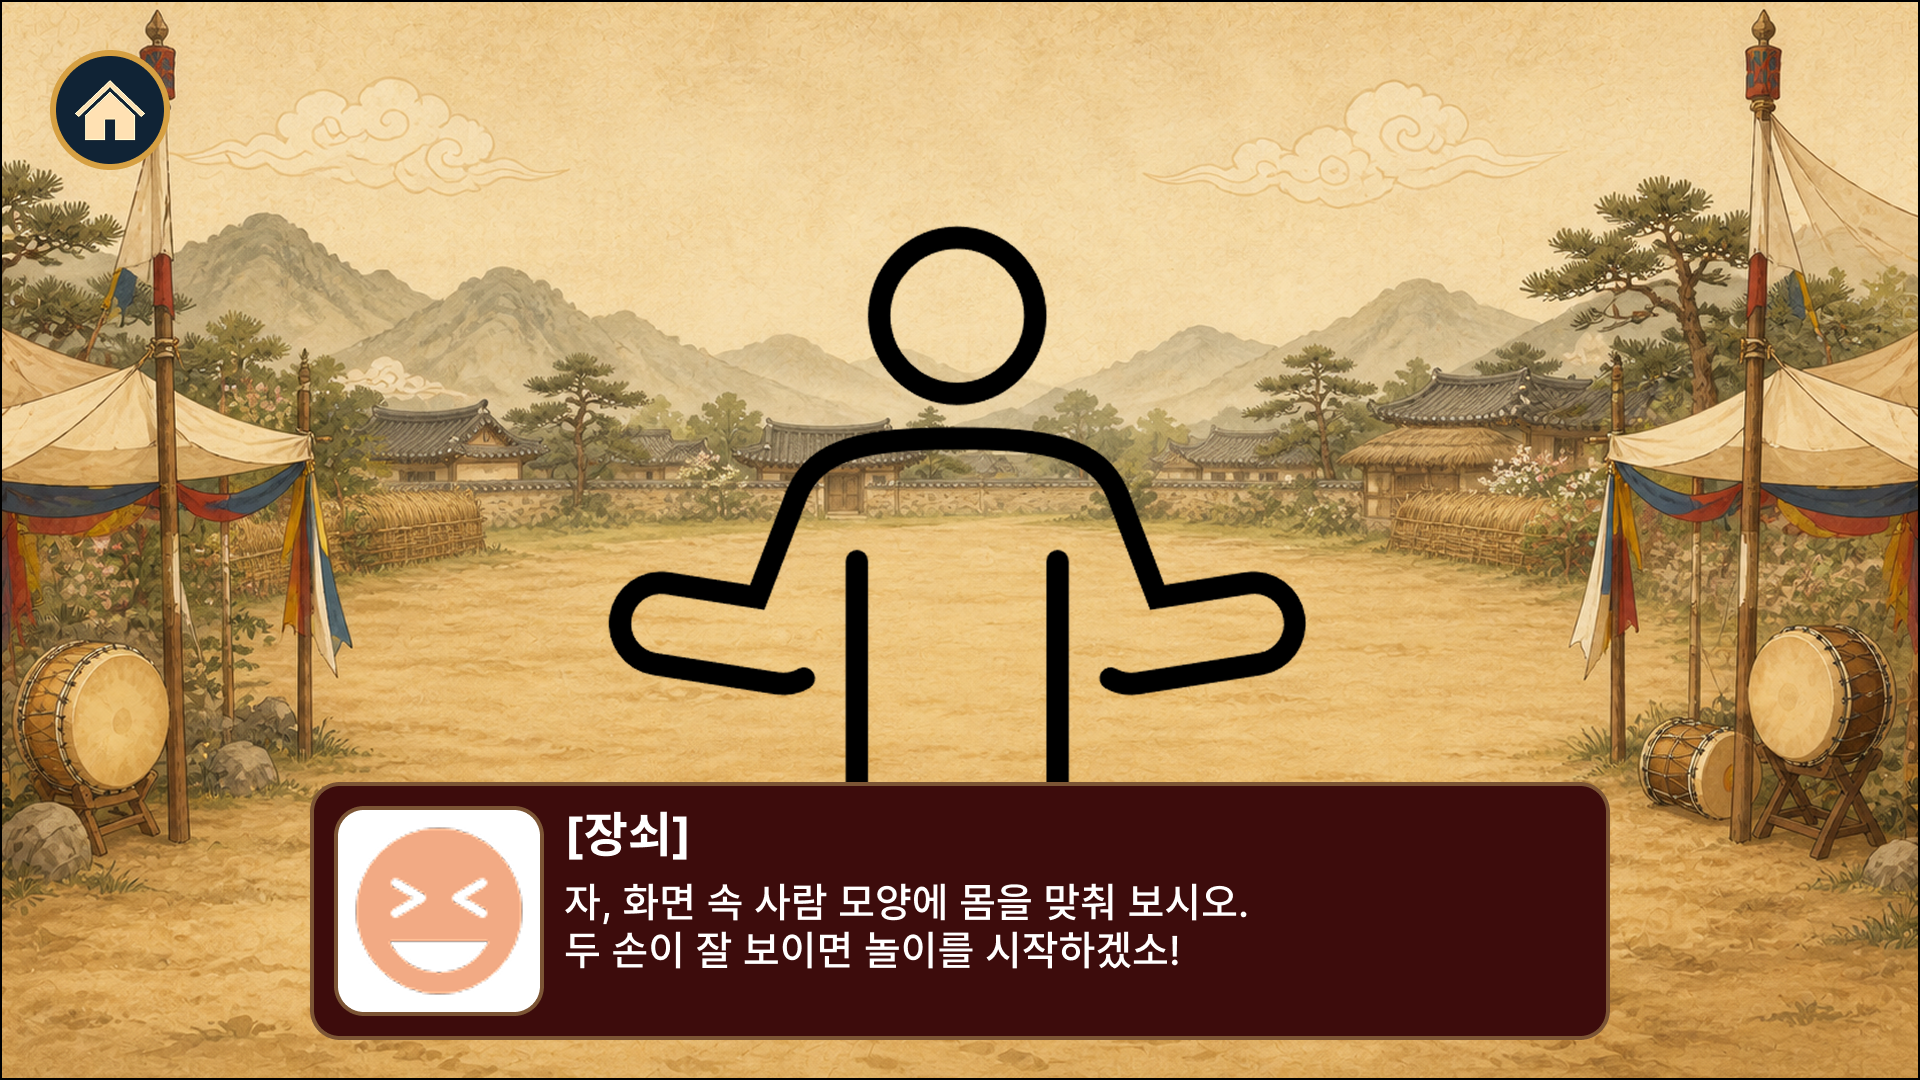
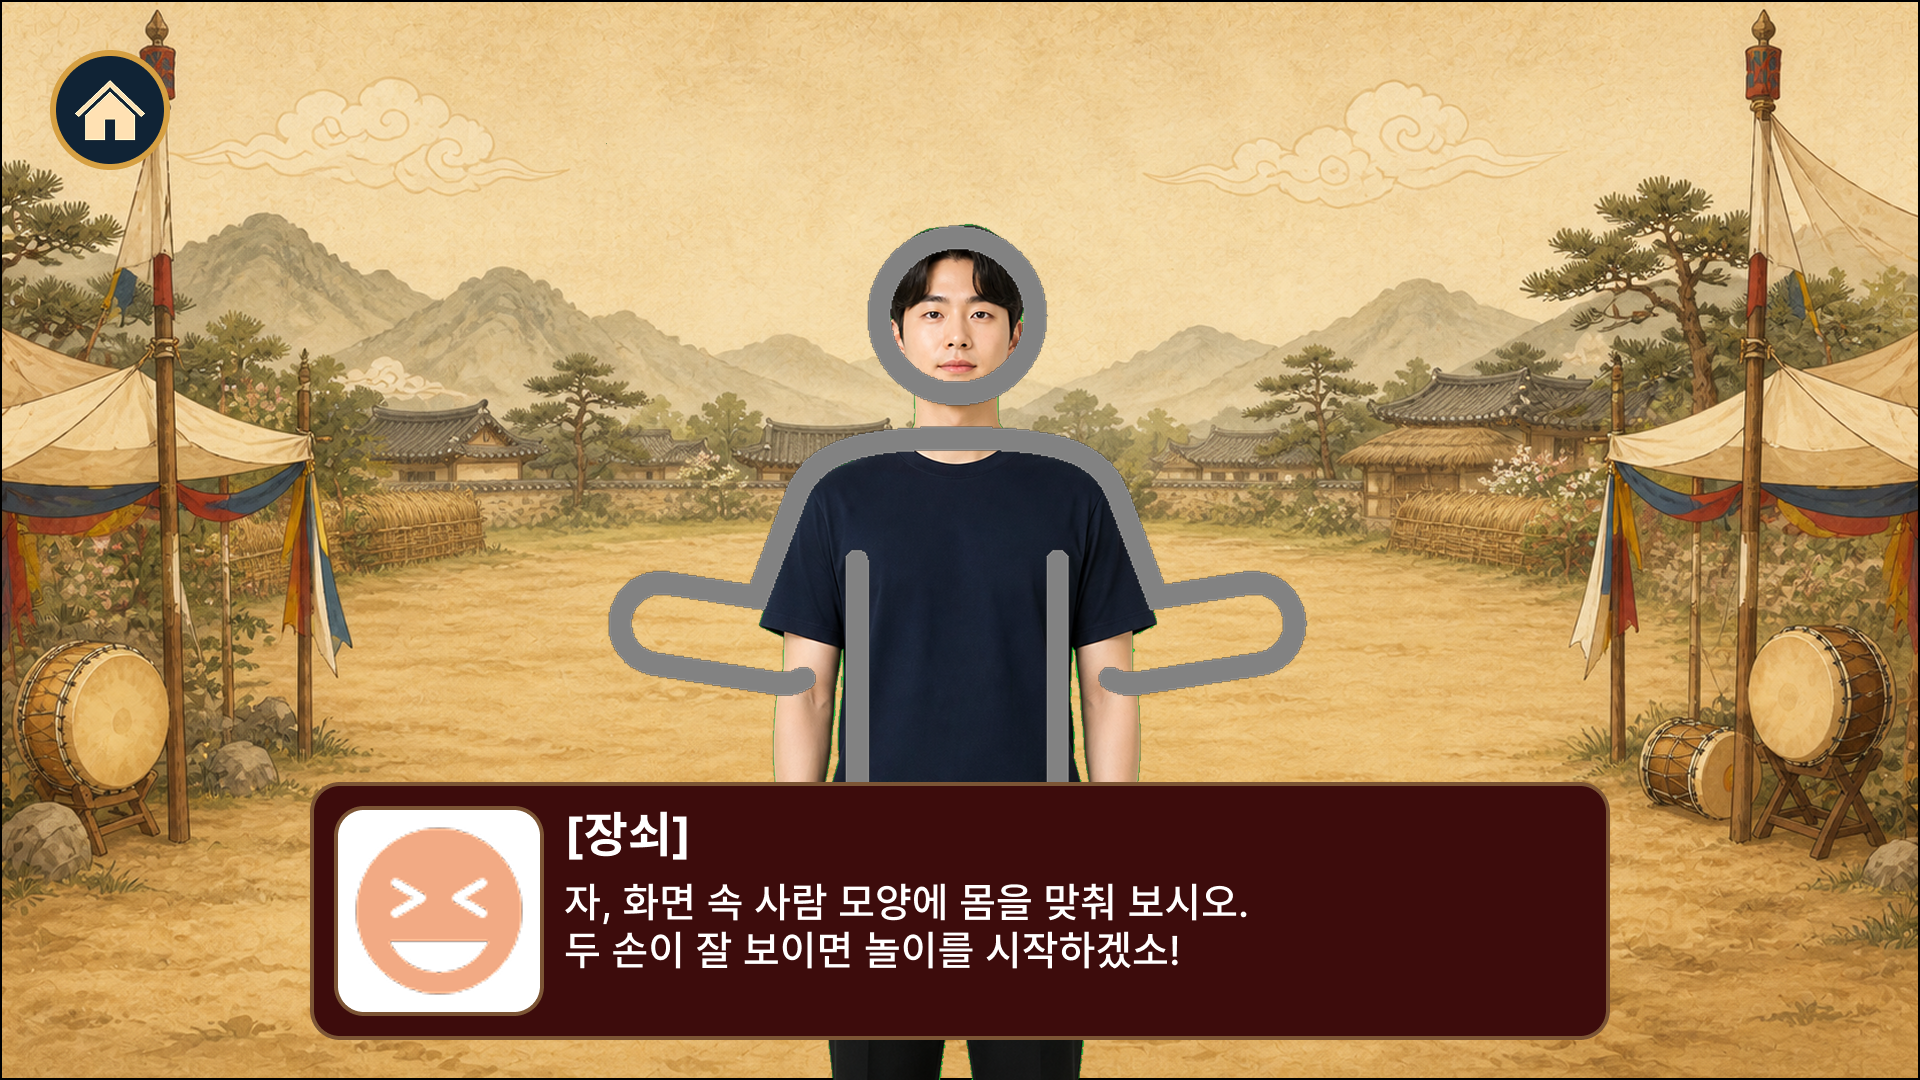
기획서 및 리소스 수정

Changed region(s): [[0.3125, 0.2139, 0.6875, 0.7333], [0.4062, 0.9472, 0.5625, 1.0]]

diff --git a/05_산출물/시범콘텐츠/05_덧뵈기 - 탈놀음 한바탕/덧뵈기 - 탈놀음 한바탕 기획서.md b/05_산출물/시범콘텐츠/05_덧뵈기 - 탈놀음 한바탕/덧뵈기 - 탈놀음 한바탕 기획서.md
@@ -257,8 +257,6 @@ updated: 2026-08-28
 - ROI는 입력 판정을 위해 화면상에 설정하는 **가상의 판정 영역**으로 **화면 좌표 기반 영역**으로 관리
 - 현재 탈놀음 체험 진행 단계에서 활성화된 ROI와 검출된 움직임의 위치 및 중첩 정도 비교
 - 설정된 판정 기준 충족 시 해당 ROI 입력 유효 판정
-	- 모션 인식 시스템 실행 후 UI 버튼: 1초 유지 시 유효 판정
-	- 탈놀음 체험 중 몰아내기 등 적대 캐릭터 등장 시: 적대 캐릭터 접촉 시 유효 판정
 
 #### 5) 게임 입력 변환
 
@@ -316,8 +314,6 @@ updated: 2026-08-28
 - 목적
 	- 완성된 재담을 직접 고르는 대신, 유저가 재담의 소재와 비트는 방식을 조합하도록 함
 	- 같은 소재에서도 방식 선택에 따라 서로 다른 재담과 반응이 나오도록 구성
-- 키워드 선택 방식
-	- 키워드는 터치 또는 모션 인식으로 선택 가능
 
 ### 3.6.2 동작 방식
 
@@ -420,6 +416,7 @@ updated: 2026-08-28
 
 - 자세 가이드라인과 장쇠 대사 표시
 - 장쇠가 가이드라인에 몸을 맞추도록 안내
+- 카메라에 비친 유저의 모습을 화면에 표시하여 유저가 정위치에 있을 수 있도록 안내
 
 #### 2) 체험 준비 완료
 
